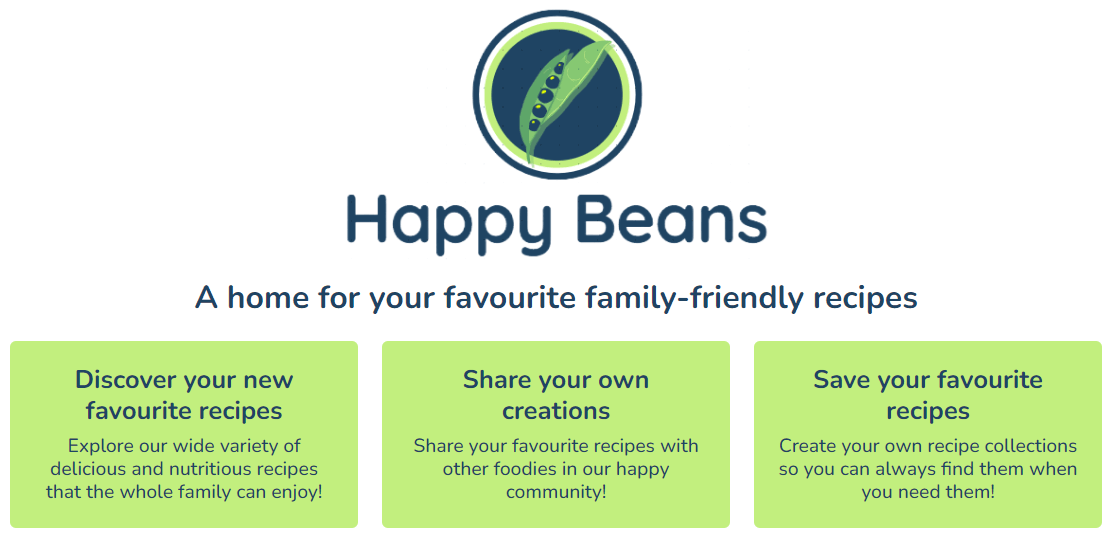
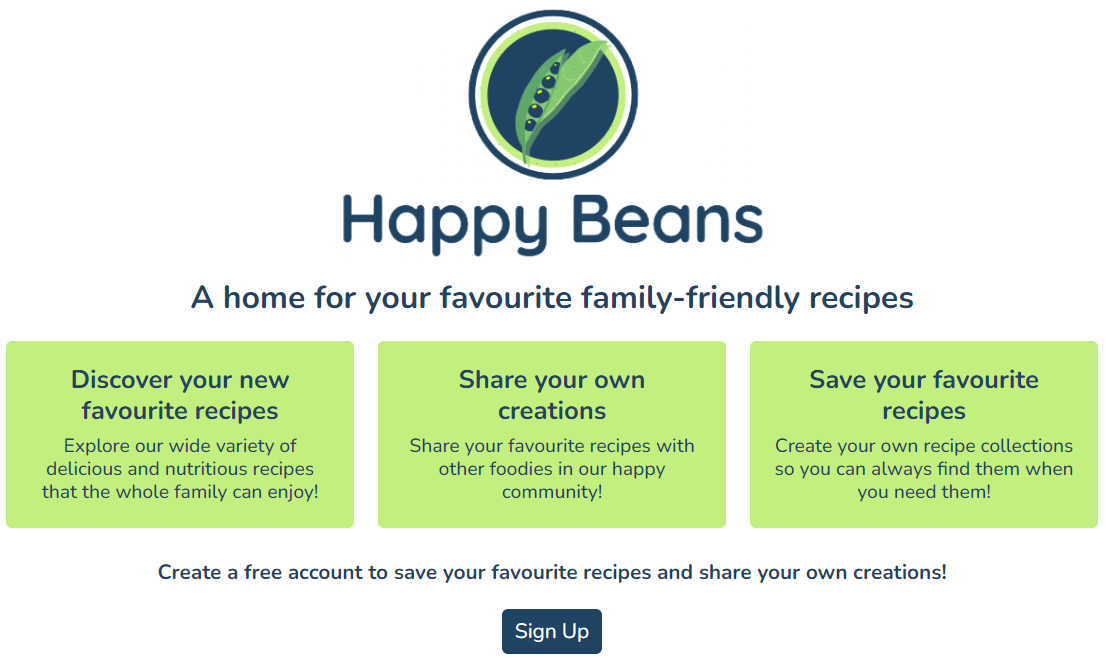
Adjust styling and wording for user story testing and add additional supporting images

diff --git a/TESTING.md b/TESTING.md
@@ -1,4 +1,4 @@
-# Happy Beans - Testing
+# Happy Beans | Testing
 
 Return to [README](https://github.com/ShizukaDonaghue/happy-beans)
 
@@ -153,7 +153,7 @@ Please see the results for each page.
 
 </details>
 
-Note: `# noqa` was added to Django generated codes under `AUTH_PASSWORD_VALIDATORS` and also to Cloudinary storage under `STATICFILES_STORAGE` for "line too long" errors to be ignored as these could not be shortened without breaking the codes.
+Note: `# noqa` was added to Django generated codes under `AUTH_PASSWORD_VALIDATORS` and also Cloudinary storage under `STATICFILES_STORAGE` for "line too long" errors to be ignored as these could not be shortened.
 
 <details>
   <summary>urls.py - No issues or errors</summary> 
@@ -559,157 +559,194 @@ User stories were tested and addressed as follows.
 * **_As a Site User, I can register an account so that I can access all the application's features._**
 
   Sign Up button is available on the Home page as well as on the navigation bar for users who are not logged in already.   
-<img src="docs/images/testing/us-account-registration-signup.png" width=700>  
 
-  Once the Sign Up link is clicked, users are directed to Sign Up page where they can register their details to log in and enable all the application's features.  
-<img src="docs/images/testing/us-account-registration.png" width=700>  
+  <img src="docs/images/testing/us-account-registration-signup.png" width=800>  
+
+    Once the Sign Up button or link is clicked, users are directed to Sign Up page where they can register their details to log in and enable all the application's features.  
+
+    <img src="docs/images/testing/us-account-registration.png" width=800>  
 
 * **_As a Site User, I can log into my account so that all the application's features are available to me._**  
 
   Log In link is available on the navigation bar for returning users who are not logged in already.   
-<img src="docs/images/testing/us-account-login.png" width=700>  
 
-  Once they fill in their details, they are logged in to enable all the application's features.  
+  <img src="docs/images/testing/us-account-login.png" width=800>  
+
+    Once they fill in their details, they are logged in to enable all the application's features.  
 
 * **_As a Site User, I can log out of my account so that I can keep my account secure._**  
 
-  Log Out link is available on the navigation bar for registered users who are already logged in.   
-<img src="docs/images/testing/us-account-logout.png" width=700>  
+  Log Out link is available on the navigation bar for users who are already logged in.   
+
+  <img src="docs/images/testing/us-account-logout.png" width=800>  
 
 
 ### **EPIC: Site Admin**
 * **_As a Site Admin, I can create, update and delete recipes and comments so that I can manage the contents of my app._**
 
   The Admin role has full CRUD functionality for all recipes and comments from the admin panel so that all the contents can be managed from there.  
-<img src="docs/images/testing/us-admin.png">  
+
+  <img src="docs/images/testing/us-admin.png">  
 
 
 ### **EPIC: Site Navigation**
 * **_As a Site User, I can understand the purpose of the app clearly so that I can decide whether the contents are right for me to sign up._**  
 
-  The landing page introduces the application explaining its purpose and benefits for signing up. This page also contains Sign Up button which directs users to Sign Up page.   
-<img src="docs/images/testing/us-introduction.png" width=700>  
+  The landing page introduces the website explaining its purpose and benefits for signing up. This page also contains Sign Up button which directs users to Sign Up page.   
+
+  <img src="docs/images/testing/us-introduction.png" width=800>  
 
 * **_As a Site User, I can navigate the site intuitively so that I can easily find what I am looking for._**  
 
-  A navigation bar is avaible on every page, which is fixed at the top of the screen for ease of use and fully responsive to all screen sizes. This allows users to navigate through the site easily. The link for the current page is shown in green to give a visual clue indicating which page they are in.   
-<img src="docs/images/testing/us-navbar.png" width=700>  
+  A navigation bar is avaible on every page, which is fixed at the top of the screen for ease of use and fully responsive to all screen sizes. This allows users to navigate through the site easily. The link for the current page is shown in green to visually indicate which page they are in.   
+
+  <img src="docs/images/testing/us-navbar.png" width=800>  
 
 * **_As a Site User, I can browse a paginated list of recipes so that I can easily select a recipe to view._**  
 
   Browse Recipes page displays 12 recipe cards per page. Each card contains the recipe image, title, description and the number of likes. Users can easily browse through the recipes and select a recipe to view the full details by clicking anywhere on the card.   
-<img src="docs/images/testing/us-browse-recipes.png" width=700>  
+
+  <img src="docs/images/testing/us-browse-recipes.png" width=800>  
 
 * **_As a Site User, I can select a recipe from the list so that I can view the full details of a recipe._**  
 
-  Recipe cards are available in Browse Recipes, My Favourites and My Recipes pages. Once a recipe card is selected, users are directed to the Recipe Details page, which displays the full detalis of the recipe.  
-<img src="docs/images/testing/us-recipe-details.png" width=700>  
+  Recipe cards are available in Browse Recipes, My Favourites and My Recipes pages. All these pages display 12 recipe cards per page. Once a recipe card is selected by clicking anywhere on the card, users are directed to the Recipe Details page, which displays the full detalis of the recipe.  
+
+  <img src="docs/images/testing/us-recipe-details.png" width=800>  
 
 * **_As a Site User, I can view the comments posted by others so that I can see the feedback and conversation for each recipe._**  
 
   Comment section is available on Recipe Details page underneath the recipe, where comments are display in ascending order based on posting dates.  Users can views the feedback and conversation for each recipe here.  
-<img src="docs/images/testing/us-comment.png" width=700>  
+
+  <img src="docs/images/testing/us-comment.png" width=800>  
 
 * **_As a Site User, I can filter the recipes by meal type so that I can view a list of recipes for the meal type._**  
 
   Recipe filters are available in Browse Recipes page where users can select a meal type to view the recipes based on the chosen criteria.  
-<img src="docs/images/testing/us-recipe-filters.png" width=700>  
+
+  <img src="docs/images/testing/us-recipe-filters.png" width=800>  
 
 * **_As a Site User, I can filter the recipes by main ingredient so that I can view a list of recipes using the main ingredient._**  
 
   Recipe filters are available in Browse Recipes page where users can select a main ingredient to view the recipes based on the chosen criteria.  
-<img src="docs/images/testing/us-recipe-filters.png" width=700>  
+
+  <img src="docs/images/testing/us-recipe-filters.png" width=800>  
 
 * **_As a Site User, I can filter the recipes based on difficulty so that I can view a list of recipes suitable for my level._**  
 
   Recipe filters are available in Browse Recipes page where users can select a difficulty level to view the recipes based on the chosen criteria.  
-<img src="docs/images/testing/us-recipe-filters.png" width=700>  
+
+  <img src="docs/images/testing/us-recipe-filters.png" width=800>  
 
 * **_As a Site User, I can see a custom error message when an HTTP error occurs so that I can understand why the error has occurred and easily navigate back to the website._**  
 
   Custom pages for 400, 403, 404 and 500 erros have been created. Each error page contains a link to the Home page as well as Browse Recipes page so that users can easily navigate back to the website.  
-<img src="docs/images/testing/us-recipe-filters.png" width=700>  
+
+  <img src="docs/images/testing/us-404-error.png" width=280>  
 
 
 ### **EPIC: Recipe Management**
 * **_As a Site User, I can post my own recipe so that I can share it with others._**  
 
   For logged-in users, Post a Recipe link is available from the navigation bar, which directs them to Post Recipe page. Users can fill in the form to share the recipe with others in the community. The form is easy to understand and users can opt to use bullet points for ingredients and method to organise the contents.  
-<img src="docs/images/testing/us-post-recipe.png" width=700>  
+
+  <img src="docs/images/testing/us-post-recipe.png" width=800>  
+  <img src="docs/images/testing/us-post-recipe-2.png" width=800>  
+  <img src="docs/images/testing/us-post-recipe-3.png" width=800>  
 
 * **_As a Site User, I can draft a recipe and save it so that I can return later and edit it._**  
 
   For logged-in users, Post a Recipe link is available from the navigation bar, which directs them to Post Recipe page. Users can fill in the form but decide not to published the recipe yet by selecting "Save as Draft" option in the form.  
-<img src="docs/images/testing/us-save-as-draft.png" width=700>  
 
-  Saved drafts are added to My Recipes page where they can return later and edit them. These drafts are marked with red [Draft] next to the title so that they can be easily identified.  
-<img src="docs/images/testing/us-draft-recipe.png" width=700>  
+  <img src="docs/images/testing/us-save-as-draft.png" width=800>  
+
+    Saved drafts are then added to My Recipes page where they can return later and edit them. These drafts are marked with red [Draft] next to the title so that they can be easily identified.  
+
+    <img src="docs/images/testing/us-draft-recipe.png" width=800>  
 
 * **_As a Site User, I can edit the recipes that I posed so that I can make changes after it has been submitted._**  
 
   Users can edit their own recipe from Recipe Details page. Edit button is available for the author of the recipe.   
-<img src="docs/images/testing/us-update-recipe-button.png" width=350>  
 
-  Once the edit button is selected, users are directed to Update Recipe page. This is the same form as the Post Recipe form, but the original details are populated from the database. Users can easily update their recipes in this form and submit the changes.  
-<img src="docs/images/testing/us-update-recipe.png" width=700>  
+  <img src="docs/images/testing/us-update-recipe-button.png" width=350>  
+
+    Once the edit button is selected, users are directed to Update Recipe page. This is the same form as the Post Recipe form, but the original details are populated from the database. Users can easily update their recipes in this form and submit the changes.   
+
+    <img src="docs/images/testing/us-update-recipe.png" width=800>  
 
 * **_As a Site User, I can delete recipes that I posted so that I can remove them from the site._**  
 
   Users can delete their own recipe from Recipe Details page. Delete button is available for the author of the recipe.  
-<img src="docs/images/testing/us-update-recipe-button.png" width=350>  
 
-  Once the delete button is selected, a modal will be displayed to confirm the deletion.   
-<img src="docs/images/testing/us-delete-recipe-modal.png" width=400>  
+  <img src="docs/images/testing/us-update-recipe-button.png" width=350>  
+
+    Once the delete button is selected, a modal will be displayed to confirm the deletion.  
+
+    <img src="docs/images/testing/us-delete-recipe-modal.png" width=430>  
 
 * **_As a Site User, I can view a list of recipes that I have posted or drafted so that I can manage them._**  
 
   For logged-in users, My Recipes link is available from the navigation bar, which directs them to My Recipes page. Users can manage their own recipes from here by clicking anywhere on the recipe card, which directs them to the Recipe Details page.  
-<img src="docs/images/testing/us-my-recipes.png" width=700>  
+
+  <img src="docs/images/testing/us-my-recipes.png" width=800>  
 
 * **_As a Site User, I can see error messages when submitting a recipe form so that I understand how the errors can be resolved._**  
 
-  If there are any errors in the Post Recipe form, error messages are displayed. This aims to assist users in filling in the form correctly by explaining each error. Error messages are also raised for empty strings to prevent the form from being submitted with empty fields.
-<img src="docs/images/testing/us-form-validation.png" width=700>  
-<img src="docs/images/testing/us-form-validation-2.png" width=700>  
+  If there are any errors in the Post Recipe form, error messages are displayed. This aims to assist users in filling in the form correctly by explaining each error.  
+
+  <img src="docs/images/testing/us-form-validation.png" width=800>  
+  <img src="docs/images/testing/us-form-validation-2.png" width=800>  
+
+    Error messages are also raised for empty strings to prevent the form from being submitted with empty fields.   
+    
+    <img src="docs/images/testing/us-form-validation-3.png" width=800>  
+    <img src="docs/images/testing/us-form-validation-4.png" width=800>  
 
 
 ### **EPIC: Recipe Comment**  
 * **_As a Site User, I can comment on a recipe so that I can share my feedback and be involved in the conversation._**  
 
   For logged-in users, Comment Form is available beneath each recipe. Users can post their comment from here to leave feedback on the recipe or ask questions, or just communicate with others in the community.  
-<img src="docs/images/testing/us-comment.png" width=700>  
+
+  <img src="docs/images/testing/us-comment.png" width=800>  
 
 * **_As a Site User, I can edit the comment I posted so that I can make changes to my comments._**  
   For the author of the comment, a vertical ellipsis is available next to the comment posting date. Users can select the edit button here, which directs them to Update Comment page where they can edit the comment.  
-<img src="docs/images/testing/us-edit-comment.png" width=350>  
+
+  <img src="docs/images/testing/us-edit-comment.png" width=400>  
 
 * **_As a Site User, I can delete the comment I posted so that I can remove it from the comments section._**  
 
   For the author of the comment, a vertical ellipsis is available next to the comment posting date. Users can select the delete button here, which opens a modal to confim the deletion.   
-<img src="docs/images/testing/us-delete-comment-modal.png" width=400>  
+
+  <img src="docs/images/testing/us-delete-comment-modal.png" width=430>  
 
 
 ### **EPIC: Recipe Likes**
 * **_As a Site User, I can view the number of likes for each recipe so that I can see the feedback from others._**  
 
   The number of likes for each recipe is displayed in the recipe card in Browse Recipes, My Favourites and My Recipe pages. It is also displayed in the Recipe Details page for each page.  
-<img src="docs/images/testing/us-nr-of-likes-recipe-card.png" width=350>  
-<img src="docs/images/testing/us-nr-of-likes-recipe-details.png" width=350>  
+
+  <img src="docs/images/testing/us-nr-of-likes-recipe-card.png" width=350>  
+  <img src="docs/images/testing/us-nr-of-likes-recipe-details.png" width=350>  
 
 * **_As a Site User, I can view the list of my liked recipes so that I can easily go back to them within the site._**   
 
-  For logged-in users, My Recipe link is available from the navigation bar, which direct them to My Favourites page. Once a recipe is liked, the recipe is added to this page for the user so that they can easily find them when they need them.  
-<img src="docs/images/testing/us-my-favourites.png" width=700>  
+  For logged-in users, My Favourites link is available from the navigation bar, which direct them to My Favourites page. Once a recipe is liked, the recipe is added to My Favourites page for the user so that they can easily find them when they need them.  
+
+  <img src="docs/images/testing/us-my-favourites.png" width=800>  
 
 * **_As a Site User, I can like a recipe so that I can interact with the content._**  
 
-  For logged-in users, the like button is available on Recipe Details page if they have not yet liked the recipe. If the recipe is not yet liked, the love heart with a plus sign is displayed. The recipe can easily be liked by clicking on this icon.  
-<img src="docs/images/testing/us-like-button.png" width=350>  
+  For logged-in users, the like button is available on Recipe Details page if they have not yet liked the recipe. The love heart with a plus sign is displayed here and the recipe can easily be liked by clicking on this icon.  
+
+  <img src="docs/images/testing/us-like-button.png" width=350>  
 
 * **_As a Site User, I can unlike a recipe so that I can remove it from my liked recipes._**  
 
-  For logged-in users, the unlike button is available on Recipe Details page if they have already liked the recipe. If the recipe is already liked, the love heard icon is displayed. The recipe can easily be unliked by clicking on this icon.  
-<img src="docs/images/testing/us-nr-of-likes-recipe-details.png" width=350>  
+  For logged-in users, the unlike button is available on Recipe Details page if they have already liked the recipe. By clicking on the loeve heart icon, the recipe can be unliked.  
+
+  <img src="docs/images/testing/us-nr-of-likes-recipe-details.png" width=350>  
 
 
 
@@ -1121,7 +1158,8 @@ This solution uses [QueryString Template Tags](https://simpleisbetterthancomplex
 RecipeList view codes and pagination codes for Browse Recipes page were updated to incorporate this solution for the Django filters.  
 
   Please click on the image to watch the GIF as auto looping is turned off to minimise distraction.  
-  *Note: These recipes were created with filter categories in their titles to demonstrate the functionality of the filters.
+  *Note: These recipes were created with filter categories in their titles to demonstrate the functionality of the filters.  
+
   <img src="docs/images/testing/recipe-filter-pagination.gif">
 
 * **Positioning of Remember Me Box**  
@@ -1130,11 +1168,14 @@ RecipeList view codes and pagination codes for Browse Recipes page were updated 
   The "Remember Me" box in Log In page was initially horizontally centralised with the rest of the contents.
   During the manual testing on iPhone 11, it was noted that the box was positioned to the left, although this was not the case in Chrome Developer.
   It appered the issue resulted from how Apple Safari rendered the codes.   
+
     <img src="docs/images/testing/remember-me-box-before-fix.jpeg" width=300>  
+
     ***Solution:***  
     CSS codes were added to target the "Remember Me" box and moved it to the right of the "Remember Me" text.
     The text and the box are now centralised together. 
     I felt that this was a more appropriate position for the box.  
+
     <img src="docs/images/testing/remember-me-box-after-fix.jpeg" width=300>
 ### Unresolved Bugs
 
@@ -1142,14 +1183,17 @@ RecipeList view codes and pagination codes for Browse Recipes page were updated 
 
   ***Issue:***  
 During the manual testing, when a recipe titled "Bob" was submitted in the deployed site, server error 500 occured.
-The error in the development environment showed that it was caused by the duplicate key value as there was already a slug value "Bob" existed in the database and the slug key value must be unique.  <img src="docs/images/testing/server-error-500.png" width=700>  
-In the admin panel, it was verified that there was indeed a recipe titled "Bob" saved as a draft by a user.
-When the draft recipe was deleted from the database, the error no longer occurred.  
+The error in the development environment showed that it was caused by the duplicate key value as there was already a slug value "Bob" existed in the database and the slug key value must be unique.  
+
+  <img src="docs/images/testing/server-error-500.png" width=700>  
+
+  In the admin panel, it was verified that there was indeed a recipe titled "Bob" saved as a draft by a user. When the draft recipe was deleted from the database, the error no longer occurred.  
 
   ***Status:***  
 Post Recipe form prevents a recipe entry with the same title as an existing recipe and raises an error.  
-<img src="docs/images/testing/no-server-error.png" width=500>   
-Attempts were made to recreate the error to investigate the issue further, however, I was never able to recreate the error.
-Since the error could not be recreated, this bug was not addressed.  
+
+  <img src="docs/images/testing/no-server-error.png" width=500>   
+
+  Attempts were made to recreate the error to investigate the issue further, however, I was never able to recreate the error. Since the error could not be recreated, this bug was not addressed.  
 
 There are no other known bugs.
